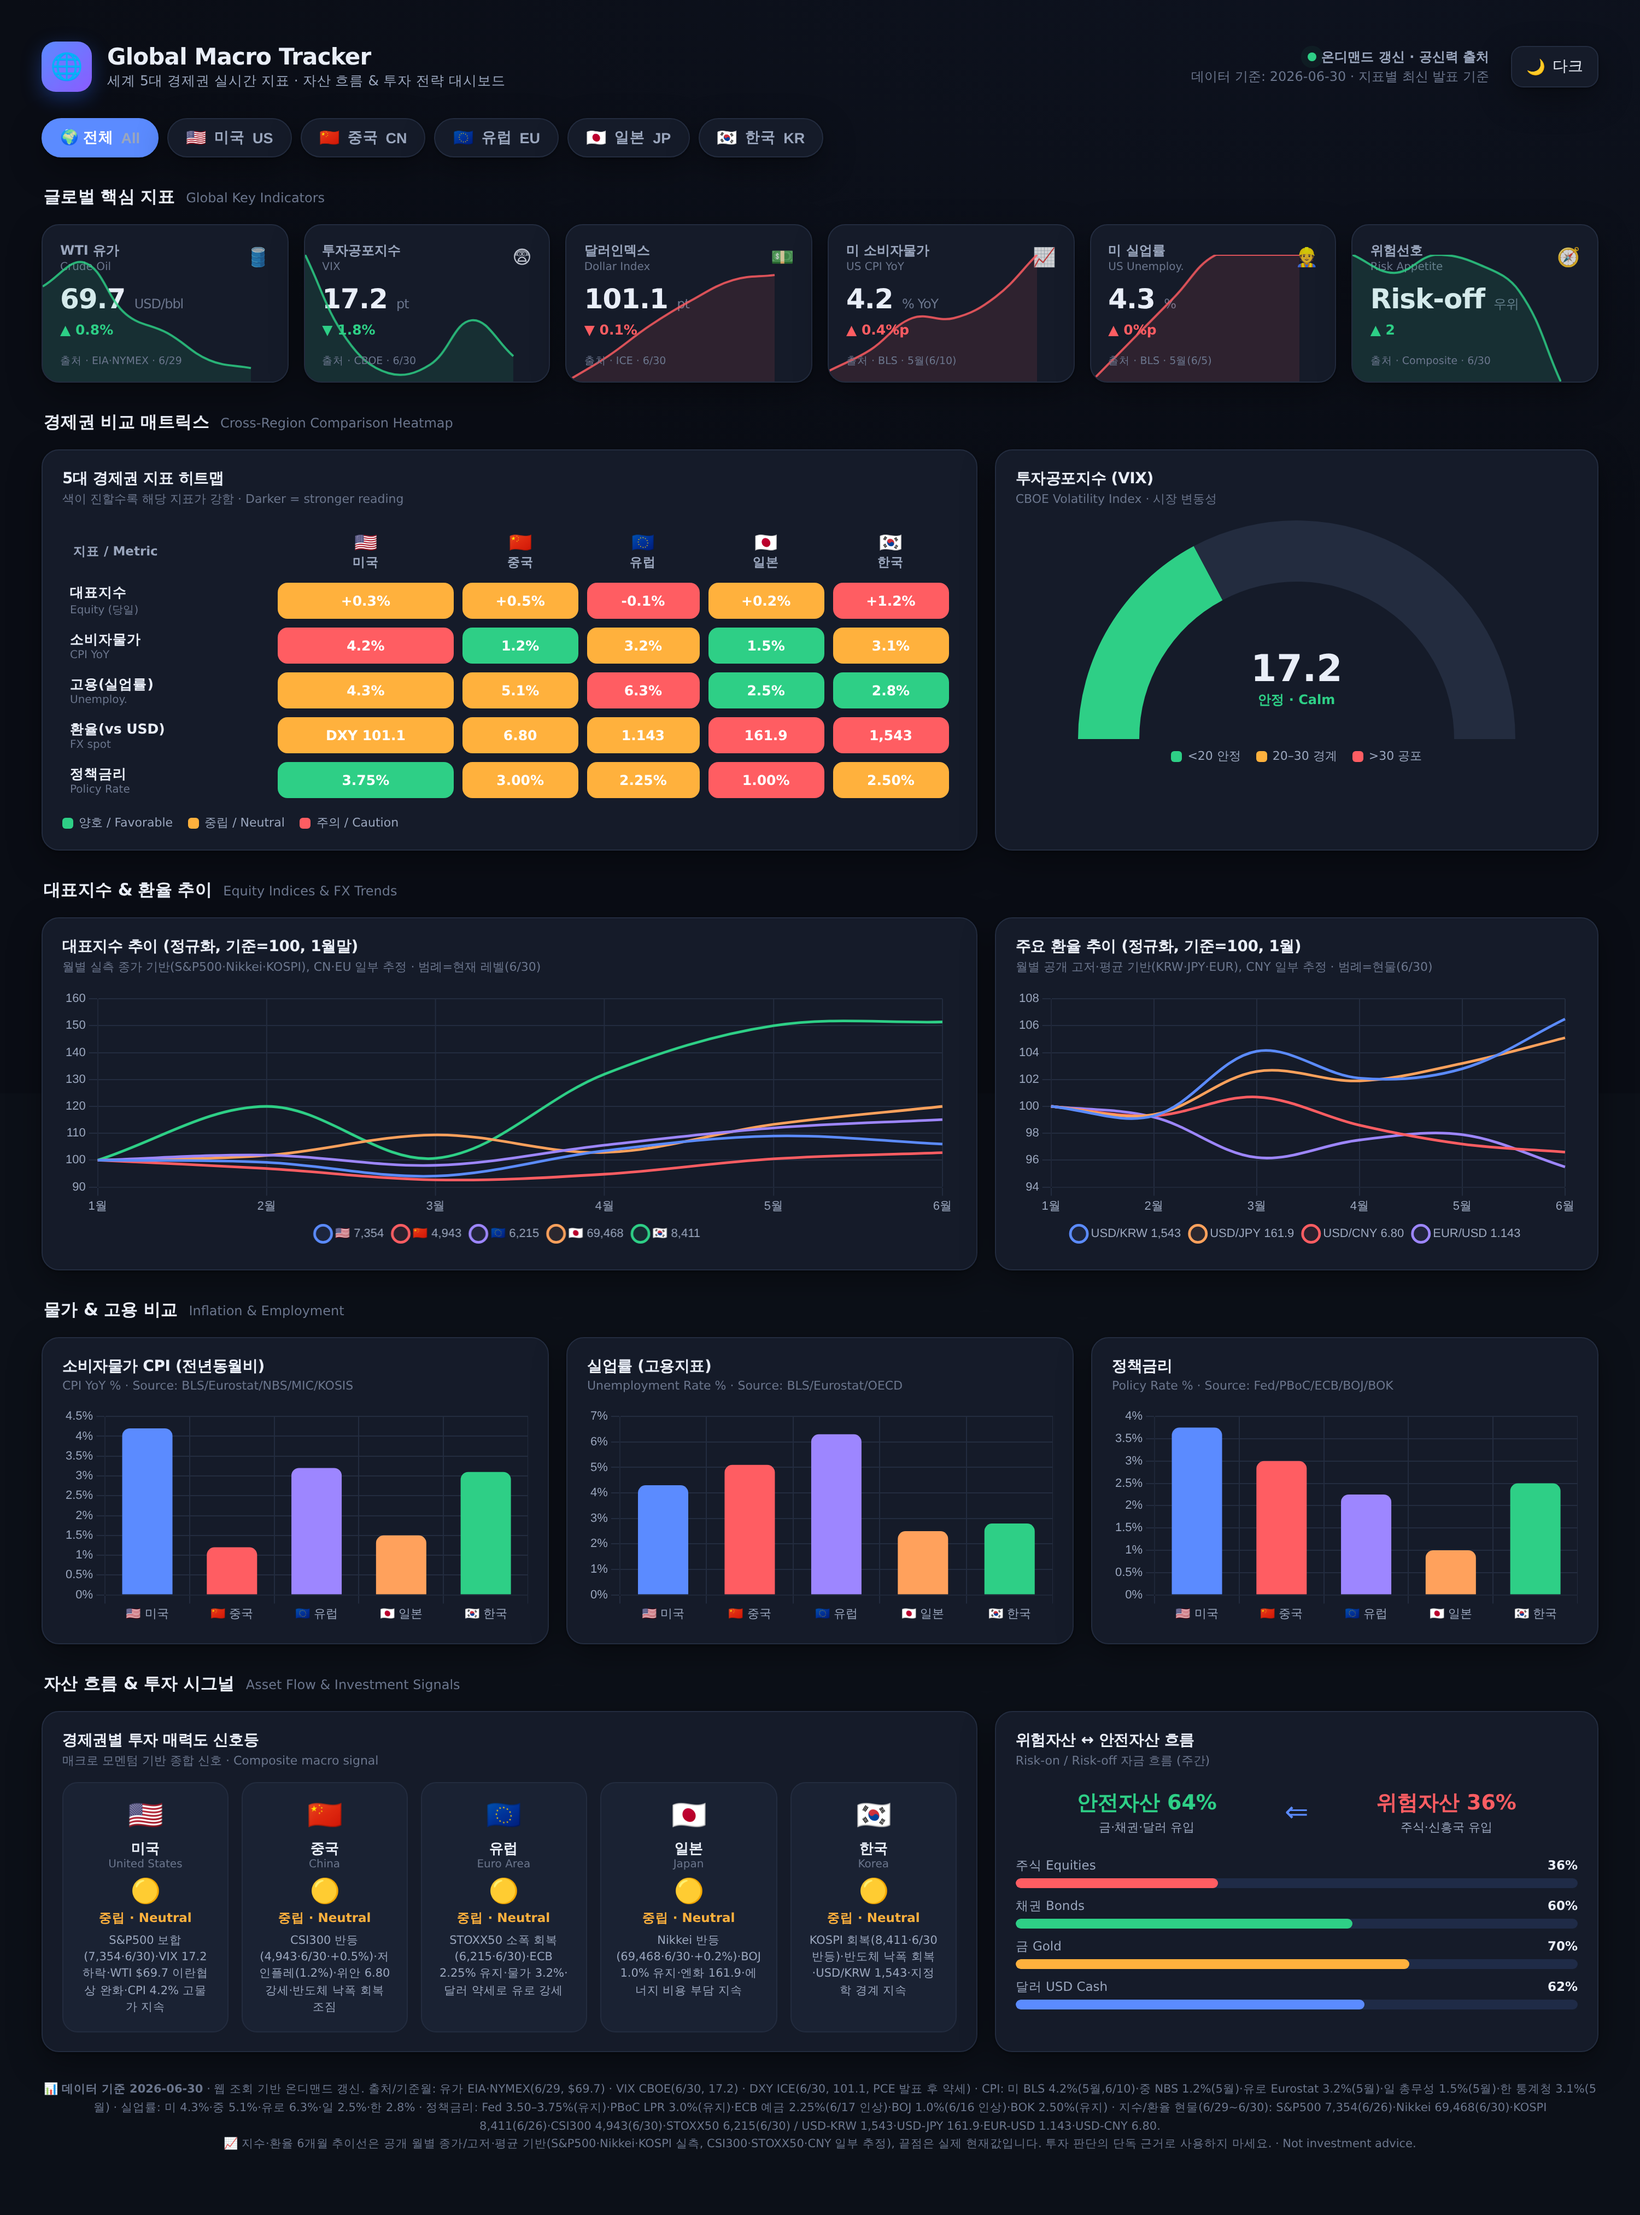
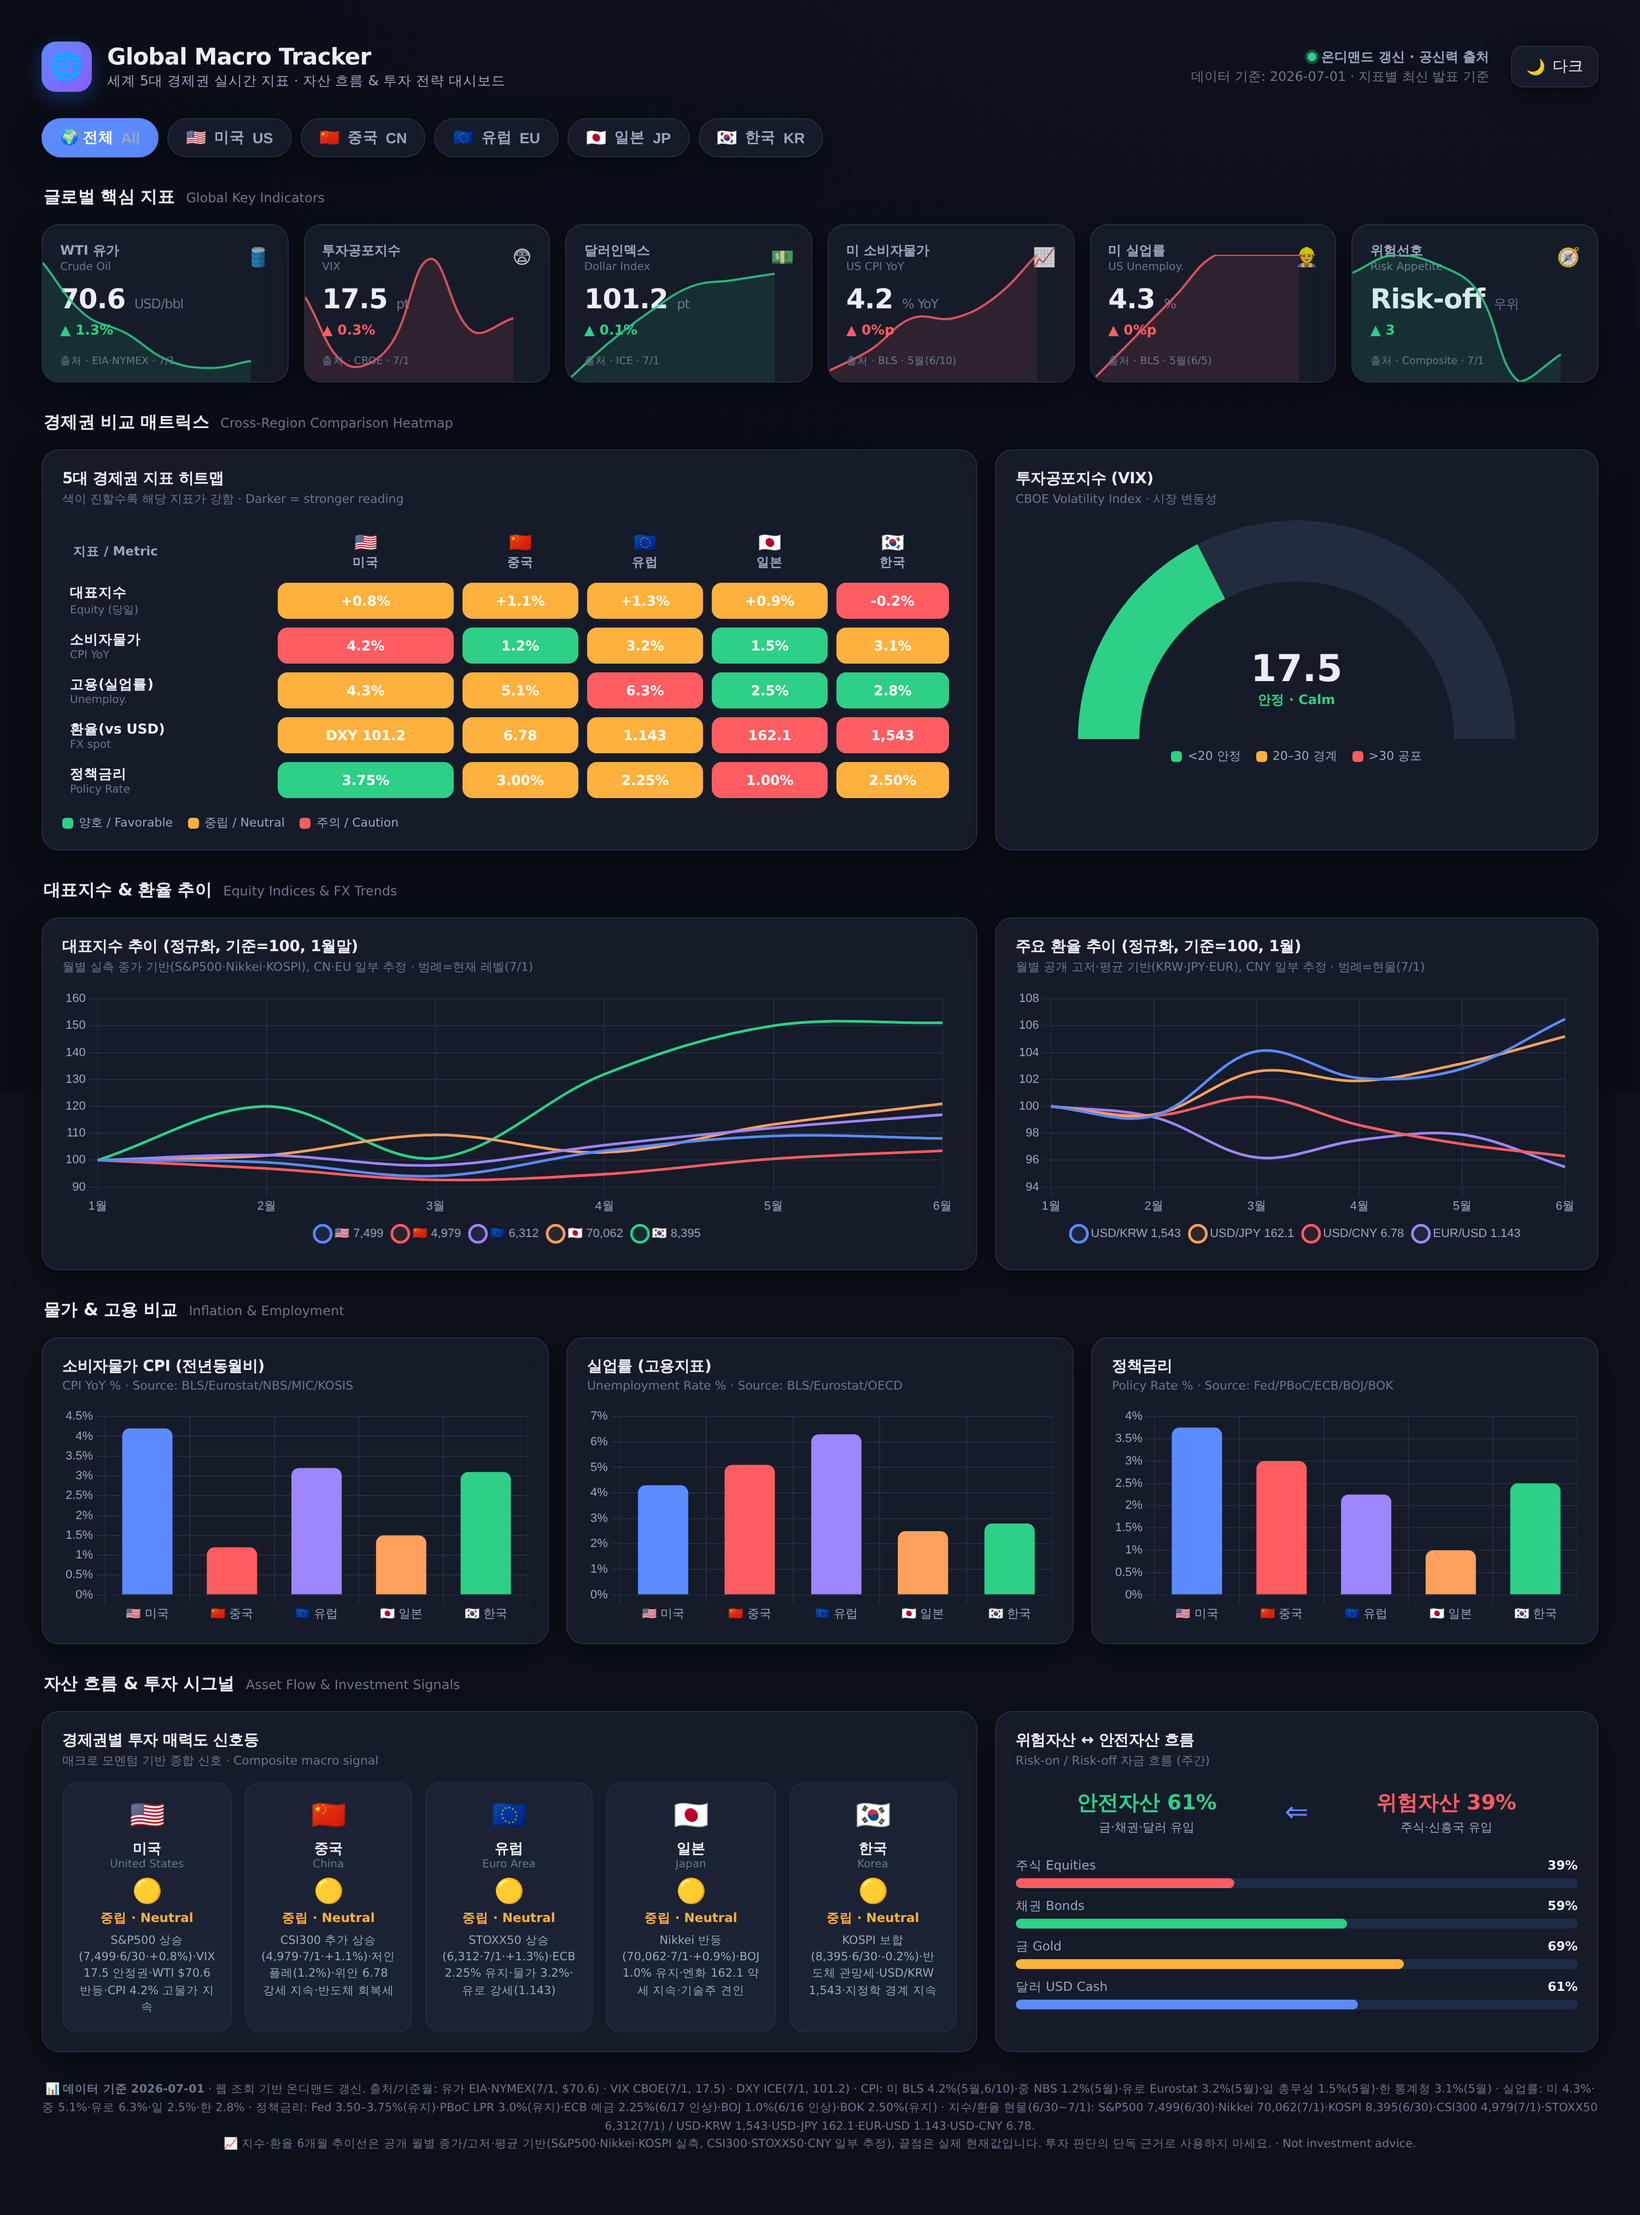
데이터 갱신 2026-07-01: S&P500·CSI300·STOXX50·Nikkei 동반 상승, VIX 안정권 유지
- WTI $70.6(+1.3%)·VIX 17.5·DXY 101.2 — EIA/CBOE/ICE 7/1 최신치
- 대표지수: S&P500 7,499(6/30 종가)·CSI300 4,979(+1.1%)·STOXX50 6,312(+1.3%)·Nikkei 70,062(+0.9%), KOSPI 8,395(6/30 -0.2%)
- 환율: USD/KRW 1,543·USD/JPY 162.1·EUR/USD 1.143·USD/CNY 6.78(위안 추가 강세)
- CPI·실업률·정책금리는 신규 발표 없어 직전 수치 유지(Fed 3.50–3.75%·BOK 2.50% 동결 확인)
- 헤더 #updated-time·푸터 기준일 2026-07-01로 갱신, renders/*.png 재렌더링(콘솔 에러 0)

Claude-Session: https://claude.ai/code/session_0192QMdd1cUJQaQz5KUy7KgF

diff --git a/index.html b/index.html
@@ -213,7 +213,7 @@
     <div class="spacer"></div>
     <div class="updated">
       <div><span class="live-dot"></span><b>온디맨드 갱신 · 공신력 출처</b></div>
-      <div id="updated-time">데이터 기준: 2026-06-30 · 지표별 최신 발표 기준</div>
+      <div id="updated-time">데이터 기준: 2026-07-01 · 지표별 최신 발표 기준</div>
     </div>
     <button class="theme-toggle" id="themeBtn">🌙 <span id="themeLabel">다크</span></button>
   </header>
@@ -274,12 +274,12 @@
   <div class="grid g-2">
     <div class="card">
       <h3>대표지수 추이 (정규화, 기준=100, 1월말)</h3>
-      <div class="h-en">월별 실측 종가 기반(S&amp;P500·Nikkei·KOSPI), CN·EU 일부 추정 · 범례=현재 레벨(6/30)</div>
+      <div class="h-en">월별 실측 종가 기반(S&amp;P500·Nikkei·KOSPI), CN·EU 일부 추정 · 범례=현재 레벨(7/1)</div>
       <div class="canvas-box"><canvas id="idxChart"></canvas></div>
     </div>
     <div class="card">
       <h3>주요 환율 추이 (정규화, 기준=100, 1월)</h3>
-      <div class="h-en">월별 공개 고저·평균 기반(KRW·JPY·EUR), CNY 일부 추정 · 범례=현물(6/30)</div>
+      <div class="h-en">월별 공개 고저·평균 기반(KRW·JPY·EUR), CNY 일부 추정 · 범례=현물(7/1)</div>
       <div class="canvas-box"><canvas id="fxChart"></canvas></div>
     </div>
   </div>
@@ -329,12 +329,12 @@
   </div>
 
   <div class="footnote">
-    📊 <b>데이터 기준 2026-06-30</b> · 웹 조회 기반 온디맨드 갱신. 출처/기준월:
-    유가 EIA·NYMEX(6/29, $69.7) · VIX CBOE(6/30, 17.2) · DXY ICE(6/30, 101.1, PCE 발표 후 약세) ·
+    📊 <b>데이터 기준 2026-07-01</b> · 웹 조회 기반 온디맨드 갱신. 출처/기준월:
+    유가 EIA·NYMEX(7/1, $70.6) · VIX CBOE(7/1, 17.5) · DXY ICE(7/1, 101.2) ·
     CPI: 미 BLS 4.2%(5월,6/10)·중 NBS 1.2%(5월)·유로 Eurostat 3.2%(5월)·일 총무성 1.5%(5월)·한 통계청 3.1%(5월) ·
     실업률: 미 4.3%·중 5.1%·유로 6.3%·일 2.5%·한 2.8% ·
     정책금리: Fed 3.50–3.75%(유지)·PBoC LPR 3.0%(유지)·ECB 예금 2.25%(6/17 인상)·BOJ 1.0%(6/16 인상)·BOK 2.50%(유지) ·
-    지수/환율 현물(6/29~6/30): S&amp;P500 7,354(6/26)·Nikkei 69,468(6/30)·KOSPI 8,411(6/26)·CSI300 4,943(6/30)·STOXX50 6,215(6/30) / USD-KRW 1,543·USD-JPY 161.9·EUR-USD 1.143·USD-CNY 6.80.<br/>
+    지수/환율 현물(6/30~7/1): S&amp;P500 7,499(6/30)·Nikkei 70,062(7/1)·KOSPI 8,395(6/30)·CSI300 4,979(7/1)·STOXX50 6,312(7/1) / USD-KRW 1,543·USD-JPY 162.1·EUR-USD 1.143·USD-CNY 6.78.<br/>
     📈 지수·환율 6개월 추이선은 공개 월별 종가/고저·평균 기반(S&amp;P500·Nikkei·KOSPI 실측, CSI300·STOXX50·CNY 일부 추정), 끝점은 실제 현재값입니다. 투자 판단의 단독 근거로 사용하지 마세요. · Not investment advice.
   </div>
 </div>
@@ -356,53 +356,53 @@ const REGIONS = {
 };
 
 const DATA = {
-  // 글로벌 KPI 카드 — 2026-06-30 갱신 (VIX·DXY 6/30 종가·WTI 6/29·지수 6/29~6/30)
+  // 글로벌 KPI 카드 — 2026-07-01 갱신 (VIX·DXY·WTI 7/1 아시아장·지수 6/30~7/1)
   kpi: [
-    { id:'wti',  label:'WTI 유가',     en:'Crude Oil',     icon:'🛢', val:'69.7', unit:'USD/bbl', chg:+0.8, src:'EIA·NYMEX · 6/29',
-      spark:[80,83,76.5,74.1,70.7,69.7] },
-    { id:'vix',  label:'투자공포지수',  en:'VIX',           icon:'😨', val:'17.2', unit:'pt', chg:-1.8, src:'CBOE · 6/30', invert:true,
-      spark:[22,18,16.4,16.8,18.9,17.2] },
-    { id:'dxy',  label:'달러인덱스',    en:'Dollar Index',  icon:'💵', val:'101.1',unit:'pt', chg:-0.1, src:'ICE · 6/30',
-      spark:[99,99.5,100.1,100.6,101.0,101.1] },
-    { id:'cpi',  label:'미 소비자물가', en:'US CPI YoY',    icon:'📈', val:'4.2', unit:'% YoY', chg:+0.4, src:'BLS · 5월(6/10)', invert:true,
+    { id:'wti',  label:'WTI 유가',     en:'Crude Oil',     icon:'🛢', val:'70.6', unit:'USD/bbl', chg:+1.3, src:'EIA·NYMEX · 7/1',
+      spark:[83,76.5,74.1,70.7,69.7,70.6] },
+    { id:'vix',  label:'투자공포지수',  en:'VIX',           icon:'😨', val:'17.5', unit:'pt', chg:+0.3, src:'CBOE · 7/1', invert:true,
+      spark:[18,16.4,16.8,18.9,17.2,17.5] },
+    { id:'dxy',  label:'달러인덱스',    en:'Dollar Index',  icon:'💵', val:'101.2',unit:'pt', chg:+0.1, src:'ICE · 7/1',
+      spark:[99.5,100.1,100.6,101.0,101.1,101.2] },
+    { id:'cpi',  label:'미 소비자물가', en:'US CPI YoY',    icon:'📈', val:'4.2', unit:'% YoY', chg:0.0, src:'BLS · 5월(6/10)', invert:true,
       spark:[3.1,3.3,3.6,3.6,3.8,4.2] },
     { id:'emp',  label:'미 실업률',     en:'US Unemploy.',  icon:'👷', val:'4.3', unit:'%', chg:0.0, src:'BLS · 5월(6/5)', invert:true,
       spark:[4.0,4.1,4.2,4.3,4.3,4.3] },
-    { id:'risk', label:'위험선호',      en:'Risk Appetite', icon:'🧭', val:'Risk-off',unit:'우위', chg:+2.0, src:'Composite · 6/30',
-      spark:[50,48,50,49,46,36] },
+    { id:'risk', label:'위험선호',      en:'Risk Appetite', icon:'🧭', val:'Risk-off',unit:'우위', chg:+3.0, src:'Composite · 7/1',
+      spark:[48,50,49,46,36,39] },
   ],
   // 히트맵: 지표 × 경제권. score 0~100(높을수록 강/양호), d=표시값(실측)
   matrix: [
     { metric:'대표지수', en:'Equity (당일)', fmt:'%',
-      cells:{ US:{d:'+0.3%',s:54}, CN:{d:'+0.5%',s:62}, EU:{d:'-0.1%',s:38}, JP:{d:'+0.2%',s:55}, KR:{d:'+1.2%',s:35} } },
+      cells:{ US:{d:'+0.8%',s:60}, CN:{d:'+1.1%',s:64}, EU:{d:'+1.3%',s:68}, JP:{d:'+0.9%',s:60}, KR:{d:'-0.2%',s:42} } },
     { metric:'소비자물가', en:'CPI YoY', fmt:'',
       cells:{ US:{d:'4.2%',s:35}, CN:{d:'1.2%',s:85}, EU:{d:'3.2%',s:50}, JP:{d:'1.5%',s:78}, KR:{d:'3.1%',s:52} } },
     { metric:'고용(실업률)', en:'Unemploy.', fmt:'',
       cells:{ US:{d:'4.3%',s:68}, CN:{d:'5.1%',s:55}, EU:{d:'6.3%',s:45}, JP:{d:'2.5%',s:92}, KR:{d:'2.8%',s:88} } },
     { metric:'환율(vs USD)', en:'FX spot', fmt:'',
-      cells:{ US:{d:'DXY 101.1',s:54}, CN:{d:'6.80',s:64}, EU:{d:'1.143',s:69}, JP:{d:'161.9',s:29}, KR:{d:'1,543',s:36} } },
+      cells:{ US:{d:'DXY 101.2',s:55}, CN:{d:'6.78',s:66}, EU:{d:'1.143',s:69}, JP:{d:'162.1',s:28}, KR:{d:'1,543',s:36} } },
     { metric:'정책금리', en:'Policy Rate', fmt:'',
       cells:{ US:{d:'3.75%',s:70}, CN:{d:'3.00%',s:62}, EU:{d:'2.25%',s:56}, JP:{d:'1.00%',s:40}, KR:{d:'2.50%',s:58} } },
   ],
-  // 대표지수: 월별 실측 종가 기반 정규화(기준=100, 1월말). 끝값 라벨=실제 현재 레벨(6/30)
-  // 6/30 지수반등: CSI300 +0.5%(4,943·실측)·Nikkei +0.2%(69,468)·STOXX50 -0.1%(6,215). S&P500·KOSPI 6/26 최종
+  // 대표지수: 월별 실측 종가 기반 정규화(기준=100, 1월말). 끝값 라벨=실제 현재 레벨(7/1)
+  // 7/1 지수 전반 상승: CSI300 +1.1%(4,979·실측)·STOXX50 +1.3%(6,312)·Nikkei +0.9%(70,062). S&P500 6/30 종가 반영(+0.8%), KOSPI 6/30 소폭 조정(-0.2%)
   indices: {
     labels: MONTHS,
-    levels: { US:'7,354', CN:'4,943', EU:'6,215', JP:'69,468', KR:'8,411' },
+    levels: { US:'7,499', CN:'4,979', EU:'6,312', JP:'70,062', KR:'8,395' },
     series: {
-      US:[100,99.2,94.1,103.5,109.0,106.0], CN:[100,96.9,92.7,94.8,100.5,102.8],
-      EU:[100,101.9,98.1,105.6,112.0,115.1], JP:[100,101.8,109.4,102.9,113.3,120.0],
-      KR:[100,120.0,100.7,132.0,150.0,151.4],
+      US:[100,99.2,94.1,103.5,109.0,108.1], CN:[100,96.9,92.7,94.8,100.5,103.5],
+      EU:[100,101.9,98.1,105.6,112.0,116.9], JP:[100,101.8,109.4,102.9,113.3,121.0],
+      KR:[100,120.0,100.7,132.0,150.0,151.1],
     }
   },
-  // 환율: 월별 정규화(기준=100, 1월). 끝값 라벨=실제 현물(6/30)
-  // KRW·JPY·EUR 공개 고저/평균 기반, CNY 일부 추정. PCE 발표 후 달러 약세·원화 추가 약세 반영
+  // 환율: 월별 정규화(기준=100, 1월). 끝값 라벨=실제 현물(7/1)
+  // KRW·JPY·EUR 공개 고저/평균 기반, CNY 일부 추정. 위안 추가 강세(6.78) 반영
   fx: {
     labels: MONTHS,
-    levels: { 'USD/KRW':'1,543', 'USD/JPY':'161.9', 'USD/CNY':'6.80', 'EUR/USD':'1.143' },
+    levels: { 'USD/KRW':'1,543', 'USD/JPY':'162.1', 'USD/CNY':'6.78', 'EUR/USD':'1.143' },
     series: {
-      'USD/KRW':[100,99.3,104.1,102.1,102.8,106.5], 'USD/JPY':[100,99.4,102.6,101.9,103.2,105.1],
-      'USD/CNY':[100,99.3,100.7,98.6,97.2,96.6], 'EUR/USD':[100,99.2,96.2,97.5,97.9,95.5],
+      'USD/KRW':[100,99.3,104.1,102.1,102.8,106.5], 'USD/JPY':[100,99.4,102.6,101.9,103.2,105.2],
+      'USD/CNY':[100,99.3,100.7,98.6,97.2,96.3], 'EUR/USD':[100,99.2,96.2,97.5,97.9,95.5],
     }
   },
   // CPI YoY 실측 (최신 발표월)
@@ -411,19 +411,19 @@ const DATA = {
   emp: { US:4.3, CN:5.1, EU:6.3, JP:2.5, KR:2.8 },
   // 정책금리 실측
   rate:{ US:3.75, CN:3.00, EU:2.25, JP:1.00, KR:2.50 },
-  vix: 17.2,
+  vix: 17.5,
   // 투자 시그널 신호등 — 데이터 기반 종합 판단
   signals: {
-    US:{ light:'🟡', verdict:'중립',    vEn:'Neutral',    note:'S&P500 보합(7,354·6/30)·VIX 17.2 하락·WTI $69.7 이란협상 완화·CPI 4.2% 고물가 지속' },
-    CN:{ light:'🟡', verdict:'중립',    vEn:'Neutral',    note:'CSI300 반등(4,943·6/30·+0.5%)·저인플레(1.2%)·위안 6.80 강세·반도체 낙폭 회복 조짐' },
-    EU:{ light:'🟡', verdict:'중립',    vEn:'Neutral',    note:'STOXX50 소폭 회복(6,215·6/30)·ECB 2.25% 유지·물가 3.2%·달러 약세로 유로 강세' },
-    JP:{ light:'🟡', verdict:'중립',    vEn:'Neutral',    note:'Nikkei 반등(69,468·6/30·+0.2%)·BOJ 1.0% 유지·엔화 161.9·에너지 비용 부담 지속' },
-    KR:{ light:'🟡', verdict:'중립',    vEn:'Neutral',    note:'KOSPI 회복(8,411·6/30 반등)·반도체 낙폭 회복·USD/KRW 1,543·지정학 경계 지속' },
+    US:{ light:'🟡', verdict:'중립',    vEn:'Neutral',    note:'S&P500 상승(7,499·6/30·+0.8%)·VIX 17.5 안정권·WTI $70.6 반등·CPI 4.2% 고물가 지속' },
+    CN:{ light:'🟡', verdict:'중립',    vEn:'Neutral',    note:'CSI300 추가 상승(4,979·7/1·+1.1%)·저인플레(1.2%)·위안 6.78 강세 지속·반도체 회복세' },
+    EU:{ light:'🟡', verdict:'중립',    vEn:'Neutral',    note:'STOXX50 상승(6,312·7/1·+1.3%)·ECB 2.25% 유지·물가 3.2%·유로 강세(1.143)' },
+    JP:{ light:'🟡', verdict:'중립',    vEn:'Neutral',    note:'Nikkei 반등(70,062·7/1·+0.9%)·BOJ 1.0% 유지·엔화 162.1 약세 지속·기술주 견인' },
+    KR:{ light:'🟡', verdict:'중립',    vEn:'Neutral',    note:'KOSPI 보합(8,395·6/30·-0.2%)·반도체 관망세·USD/KRW 1,543·지정학 경계 지속' },
   },
-  // 자산 흐름 (% 자금흐름 강도) — VIX 하락·달러 약세로 리스크온 소폭 회복
-  flow: { riskOn: 36, riskOff: 64,
-    bars:[ {k:'주식 Equities', v:36, c:'var(--up)'}, {k:'채권 Bonds', v:60, c:'var(--down)'},
-           {k:'금 Gold', v:70, c:'var(--warn)'}, {k:'달러 USD Cash', v:62, c:'var(--accent)'} ] }
+  // 자산 흐름 (% 자금흐름 강도) — VIX 안정·주요 지수 동반 상승, 위험선호 소폭 회복
+  flow: { riskOn: 39, riskOff: 61,
+    bars:[ {k:'주식 Equities', v:39, c:'var(--up)'}, {k:'채권 Bonds', v:59, c:'var(--down)'},
+           {k:'금 Gold', v:69, c:'var(--warn)'}, {k:'달러 USD Cash', v:61, c:'var(--accent)'} ] }
 };
 
 /* ===================== THEME ===================== */
